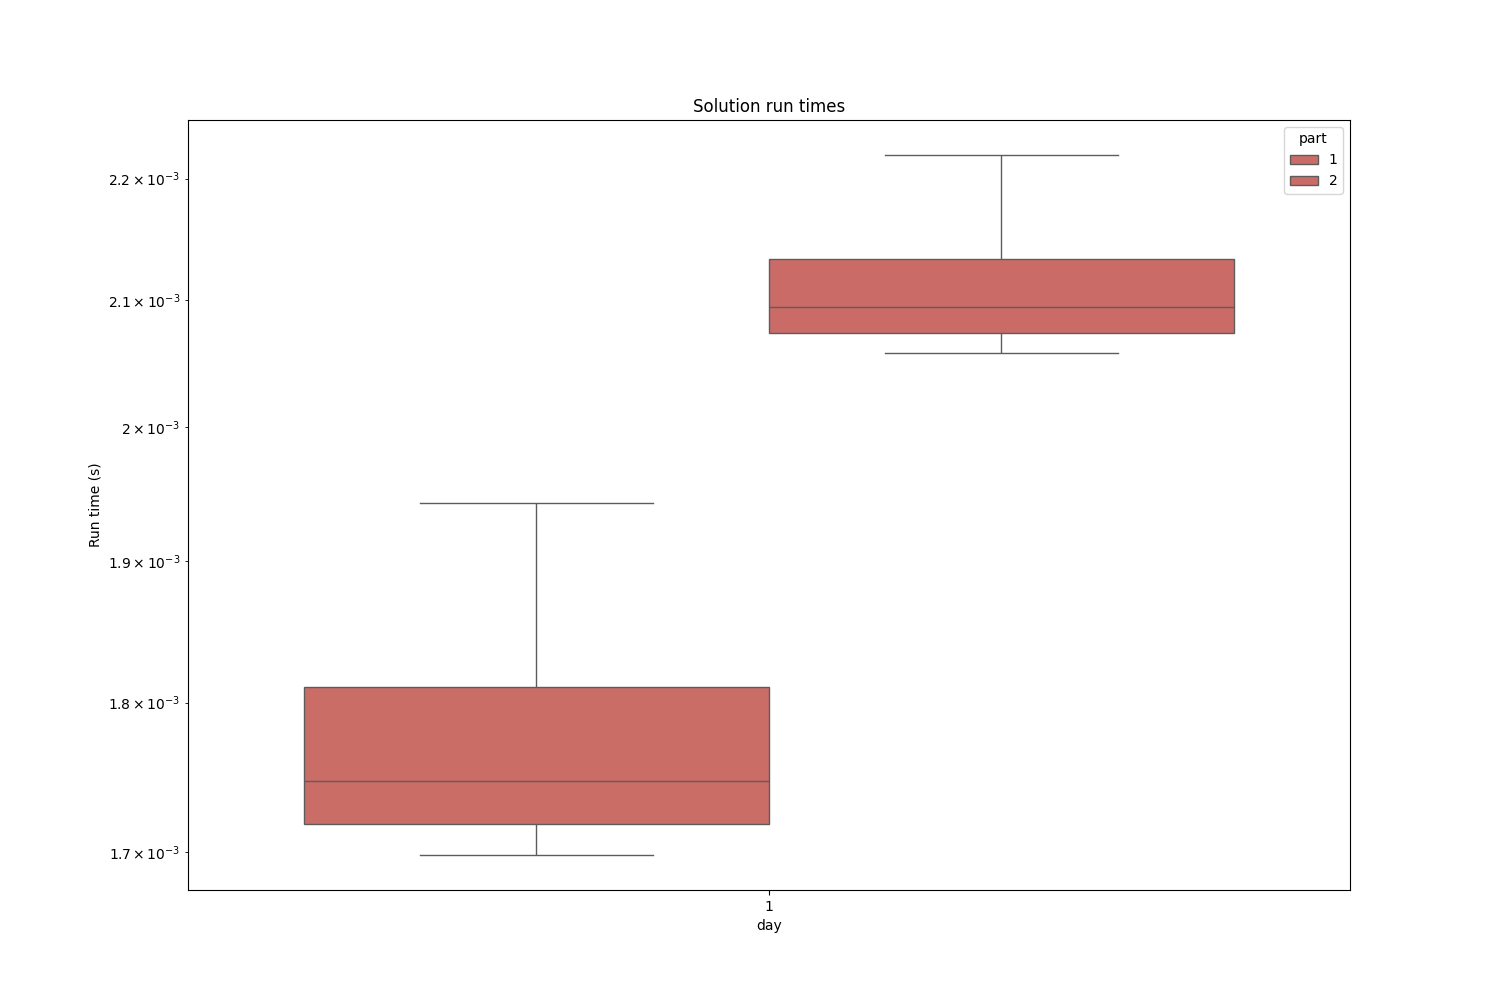
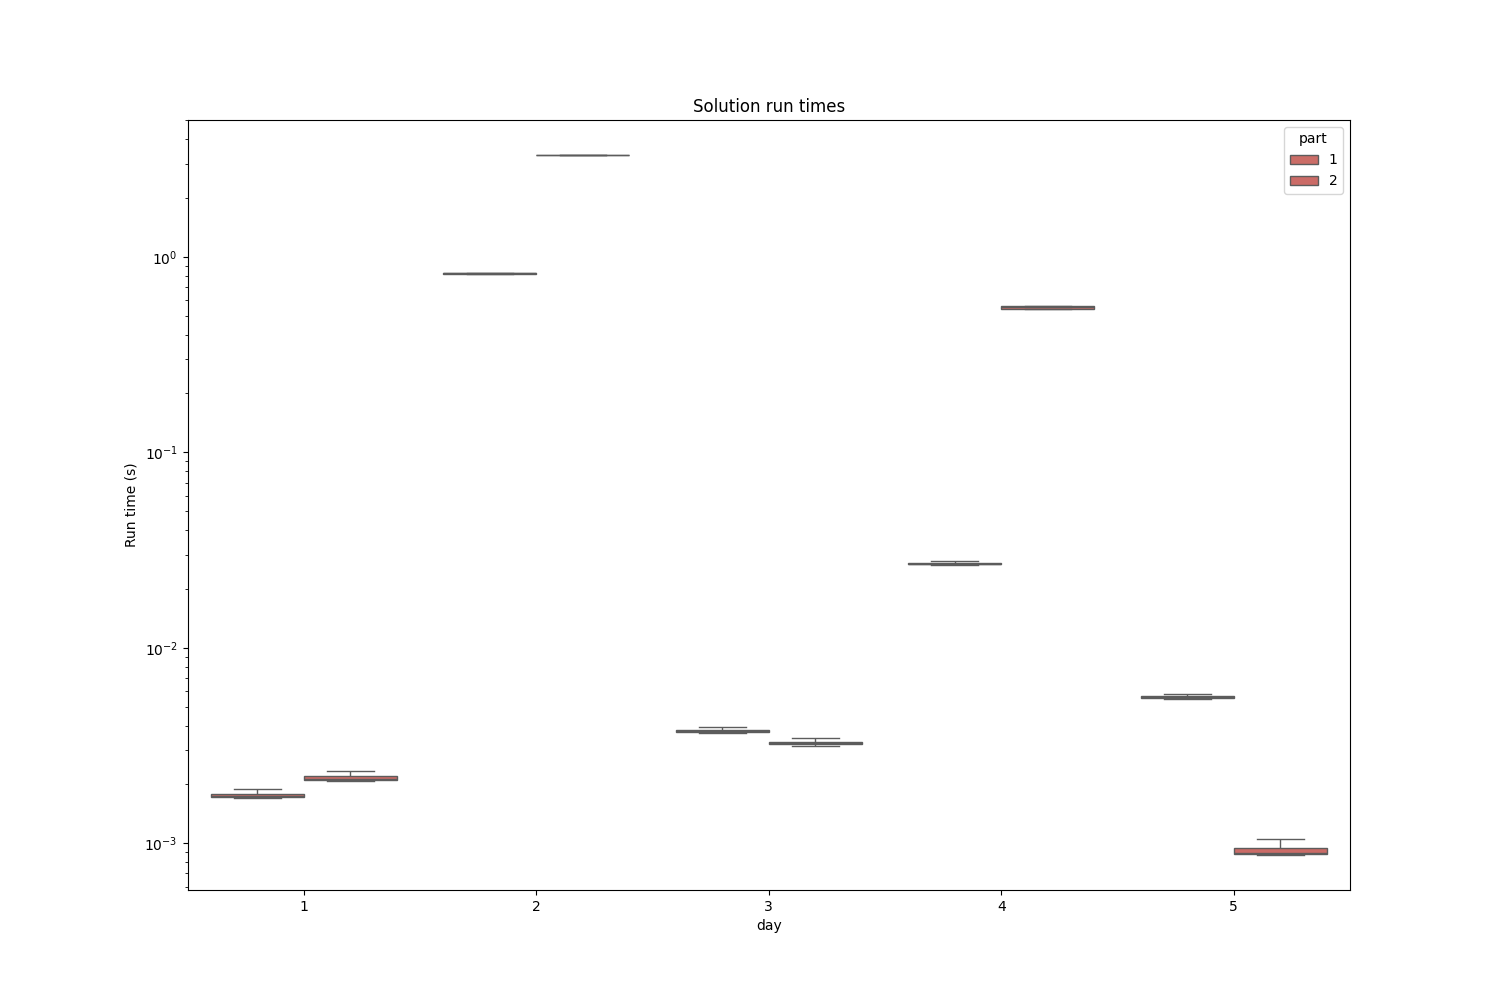
day 5

diff --git a/aoc/day_05.py b/aoc/day_05.py
@@ -1,0 +1,68 @@
+def part_one(file_path: str):
+    """[summary]
+
+    Args:
+        file_path (str): [description]
+
+    Returns:
+        [type]: [description]
+    """
+
+    # read file
+    with open(file_path) as f:
+        lines = f.readlines()
+
+
+    ranges = lines[:lines.index("\n")]
+    ids = [int(x) for x in lines[lines.index("\n")+1:]]
+
+    ranges = [[int(x) for x in r.split("-")] for r in ranges]
+
+    count = 0
+    for id in ids:
+        for a,b in ranges:
+            if id >= a and id <= b:
+                count += 1
+                break
+
+    return count
+
+
+def part_two(file_path: str):
+    """[summary]
+
+    Args:
+        file_path (str): [description]
+
+    Returns:
+        [type]: [description]
+    """
+
+    with open(file_path) as f:
+        lines = f.readlines()
+
+    ranges = lines[:lines.index("\n")]
+    ranges = [[int(x) for x in r.split("-")] for r in ranges]
+
+    count = 0
+    for i in range(len(ranges)):
+        a, b = ranges[i]
+        distinct = True
+        for j in range(i+1, len(ranges)):
+            c, d = ranges[j]
+            if (b < c) or (d < a):
+                continue
+            else:
+                distinct = False
+                new_range = [min(a,c), max(b,d)]
+                ranges[j] = new_range
+                break
+        if distinct:
+            count += b  -a +1
+    
+    return count
+
+
+if __name__ == "__main__":
+    print(part_one("aoc/inputs/day_05.txt"))
+    print(part_two("aoc/inputs/day_05.txt"))

diff --git a/tests/test_day_05.py b/tests/test_day_05.py
@@ -1,0 +1,13 @@
+from aoc.day_05 import part_one, part_two
+
+def test_part_one():
+
+    test_file_path = "tests/test_inputs/test_day_05.txt"
+
+    assert part_one(test_file_path) == 3
+
+def test_part_two():
+
+    test_file_path = "tests/test_inputs/test_day_05.txt"
+
+    assert part_two(test_file_path) == 14
